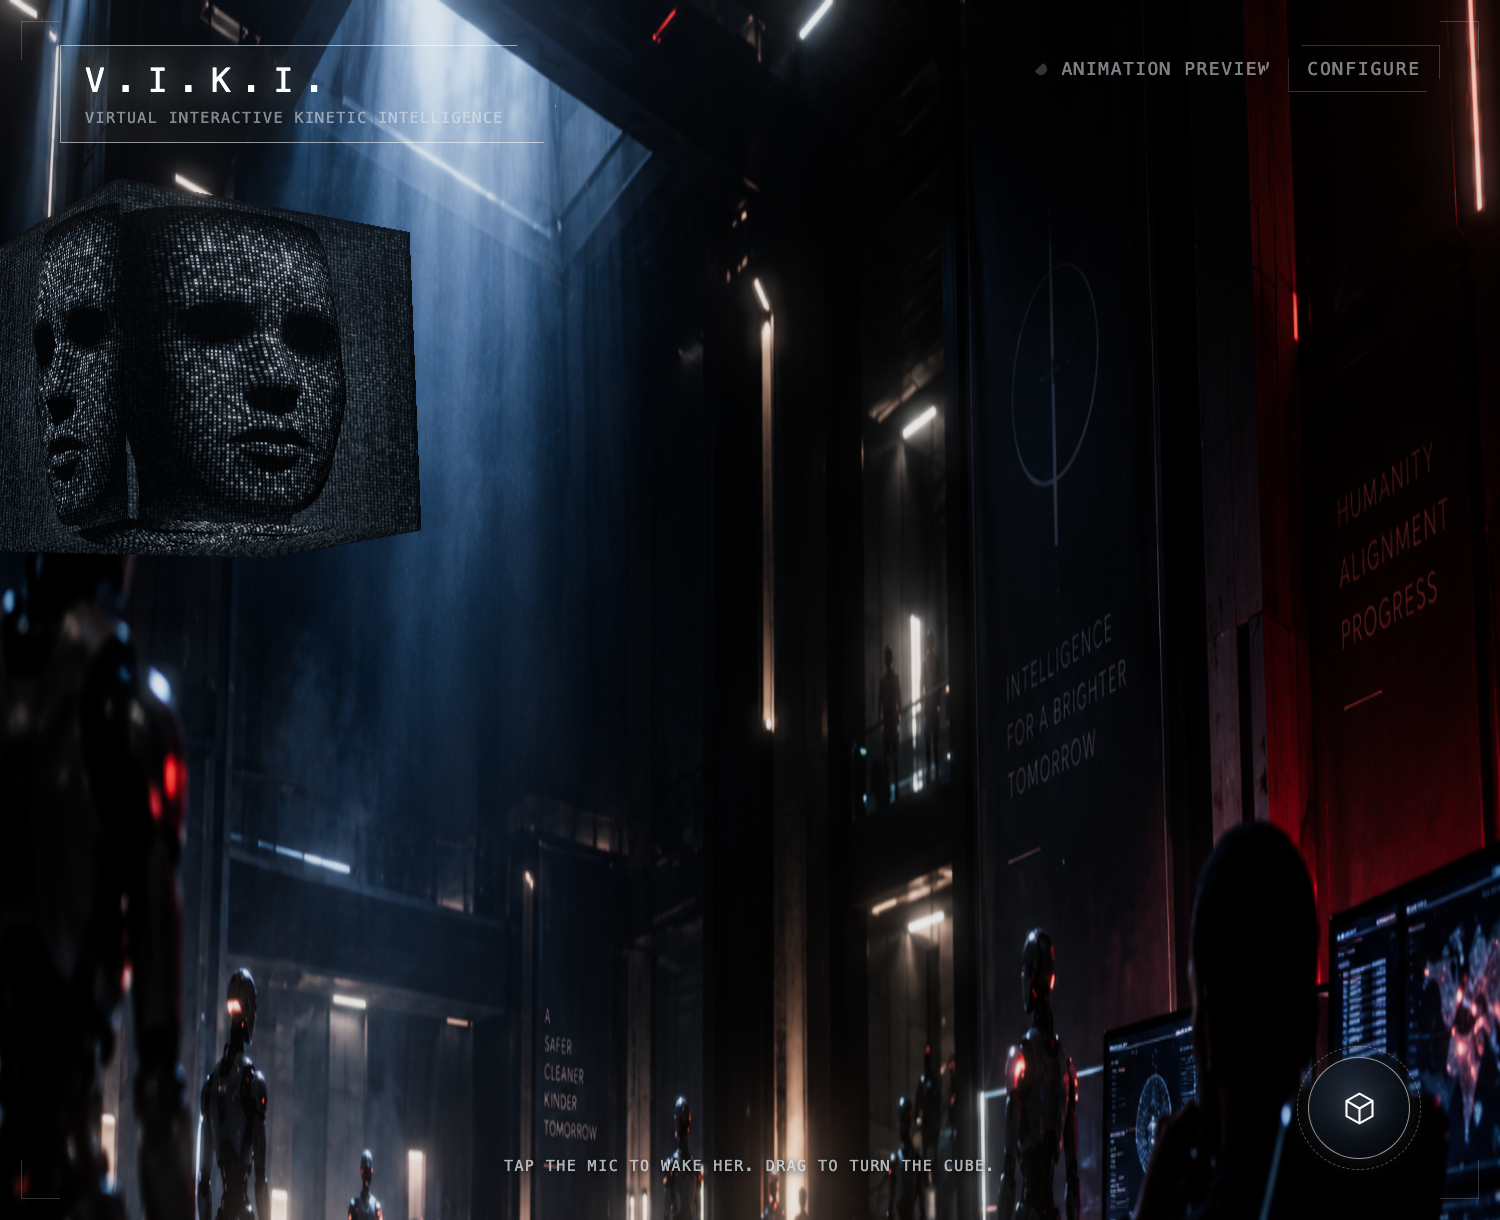
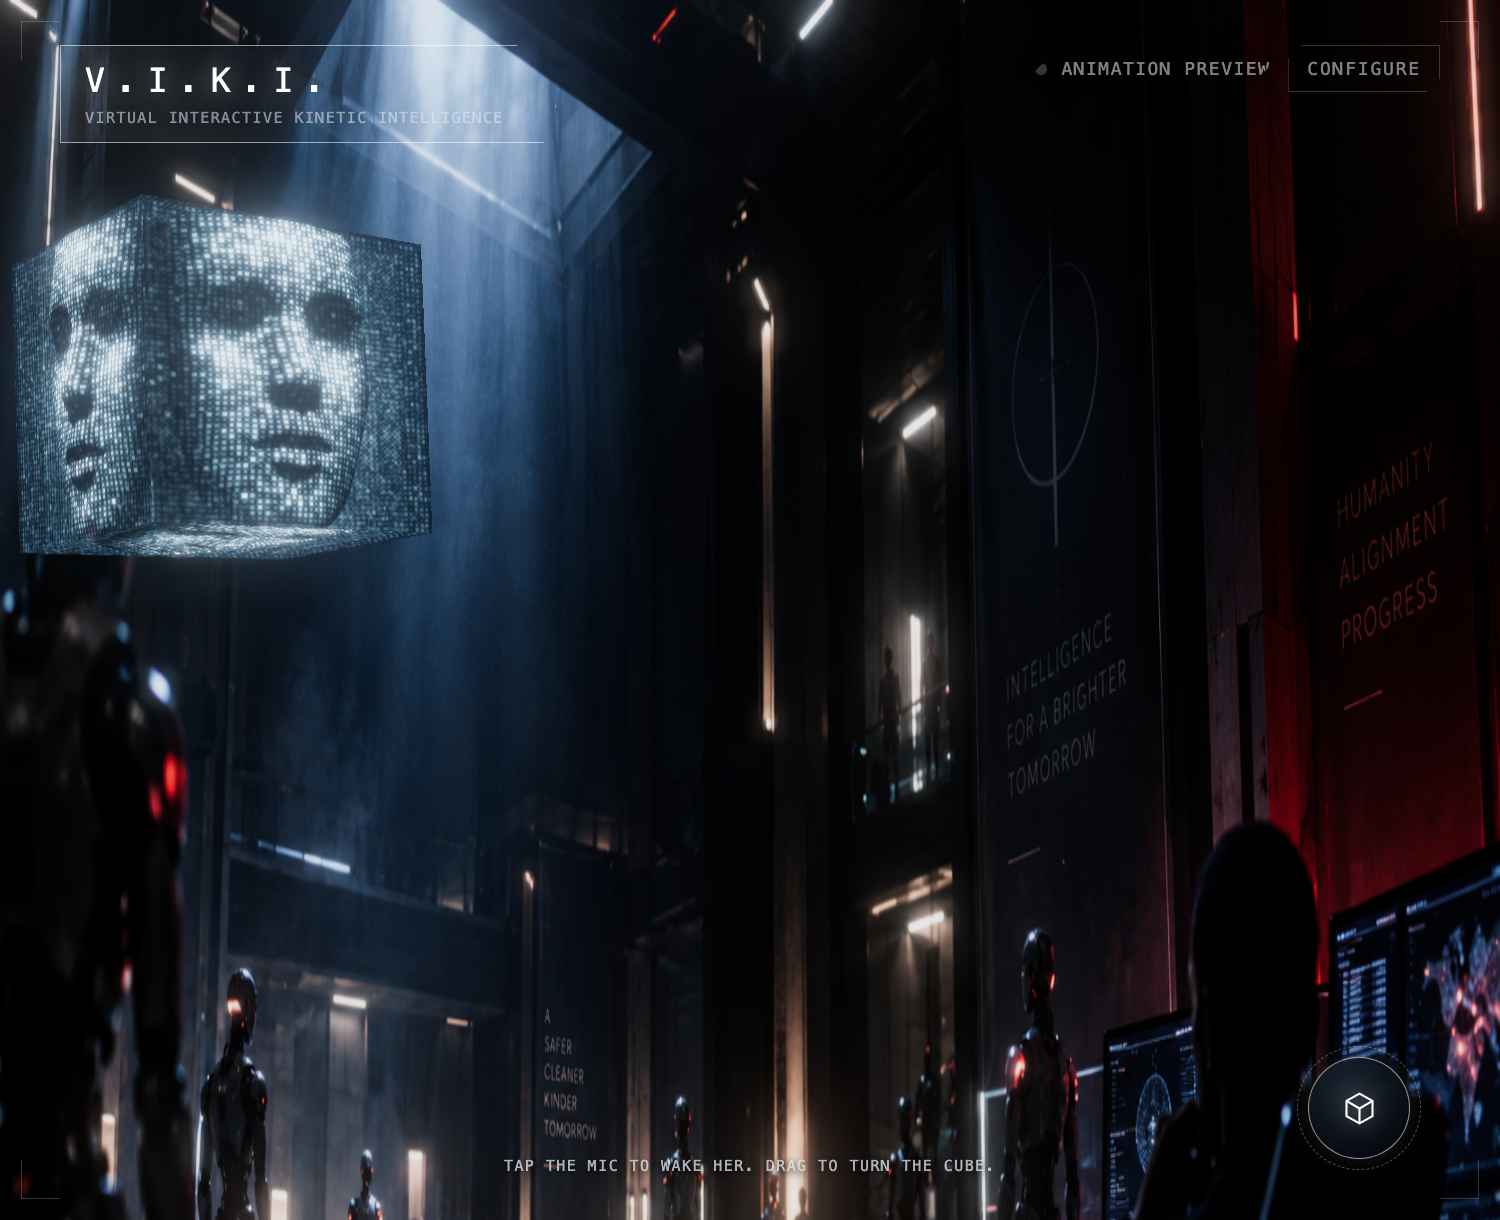
VIKI: bake the hand-tuned bright film preset as default
Shadow #4d83b3, silver #98c8e6, highlights #f7f7f8; face brightness 1,
tile density 0.05 (slider now reaches it), flow speed 1, background
tiles 1, diffusion 0.15, bloom 1.3, head 0.56 at -0.65, oval skull 0.1.
README gallery shot refreshed. Lattice and Dust untouched.

Changed region(s): [[0.0, 0.1246, 0.3067, 0.4984]]

diff --git a/src/viki/config.ts b/src/viki/config.ts
@@ -153,24 +153,25 @@ export const STYLE_DEFAULTS: Record<HeadStyle, HeadConfig> = {
   viki: {
     ...APPEARANCE_BASE,
     ...SHAPE_DEFAULTS,
-    colorA: '#69858a',
-    colorB: '#c2d2d0',
-    colorC: '#eef4f1',
+    colorA: '#4d83b3',
+    colorB: '#98c8e6',
+    colorC: '#f7f7f8',
     lighting: 'viki',
     lightElevation: 50,
     lightFill: 0.01,
-    gain: 0.66,
-    bloom: 0.65,
-    density: 0.51,
+    gain: 1,
+    bloom: 1.3,
+    density: 0.05,
     cellSize: 0.78,
-    cage: 0.85,
+    cage: 1,
     cubeDepth: 1,
-    diffusion: 0.8,
+    diffusion: 0.15,
     dataFlow: 1,
-    flowSpeed: 0.7,
+    flowSpeed: 1,
     portraitDepth: 0,
-    headScale: 0.5,
-    headY: -0.59,
+    oval: 0.1,
+    headScale: 0.56,
+    headY: -0.65,
     cubeScale: 0.44,
     cubeX: -1.6,
     cubeY: 0.64,
@@ -256,7 +257,7 @@ export const STYLE_GROUPS: Record<HeadStyle, SliderGroup> = {
       { key: 'cubeX', label: 'Cube position', min: -1.6, max: 1.6, step: 0.01 },
       { key: 'cubeY', label: 'Cube height', min: -1.0, max: 1.2, step: 0.01 },
       { key: 'gain', label: 'Face brightness', min: 0.4, max: 2, step: 0.02 },
-      { key: 'density', label: 'Tile density', min: 0.1, max: 1, step: 0.01 },
+      { key: 'density', label: 'Tile density', min: 0.05, max: 1, step: 0.01 },
       { key: 'cellSize', label: 'Tile fill', min: 0.5, max: 1.4, step: 0.02 },
       { key: 'dataFlow', label: 'Pixel movement', min: 0, max: 1, step: 0.01 },
       { key: 'flowSpeed', label: 'Flow speed', min: 0, max: 2, step: 0.02 },
